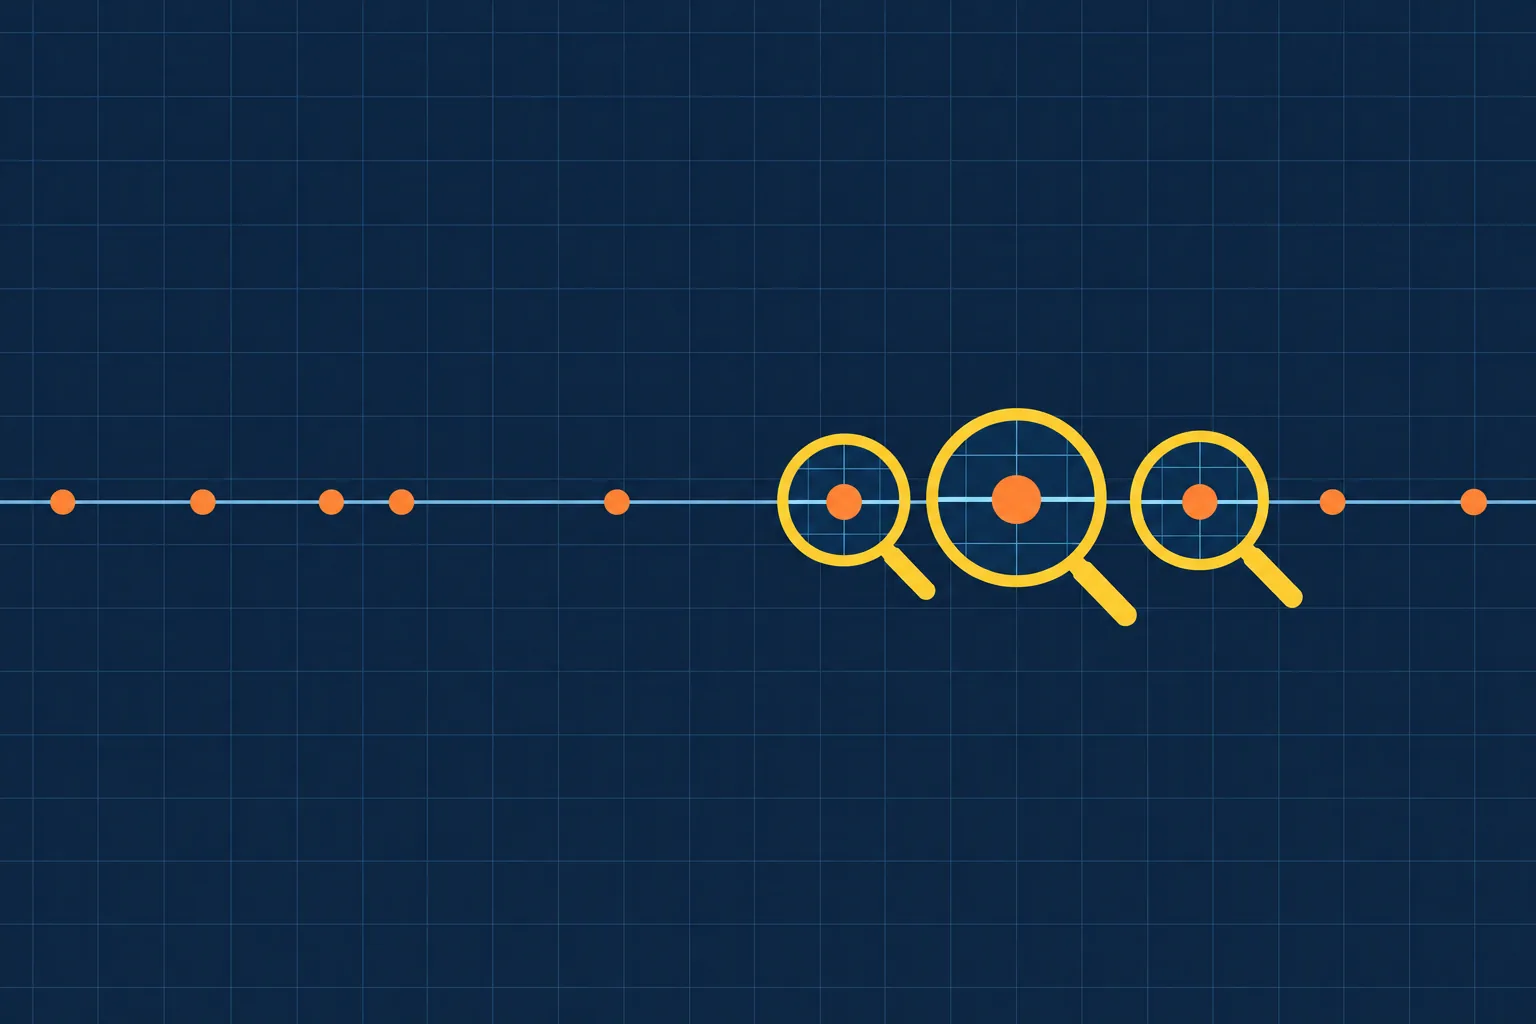
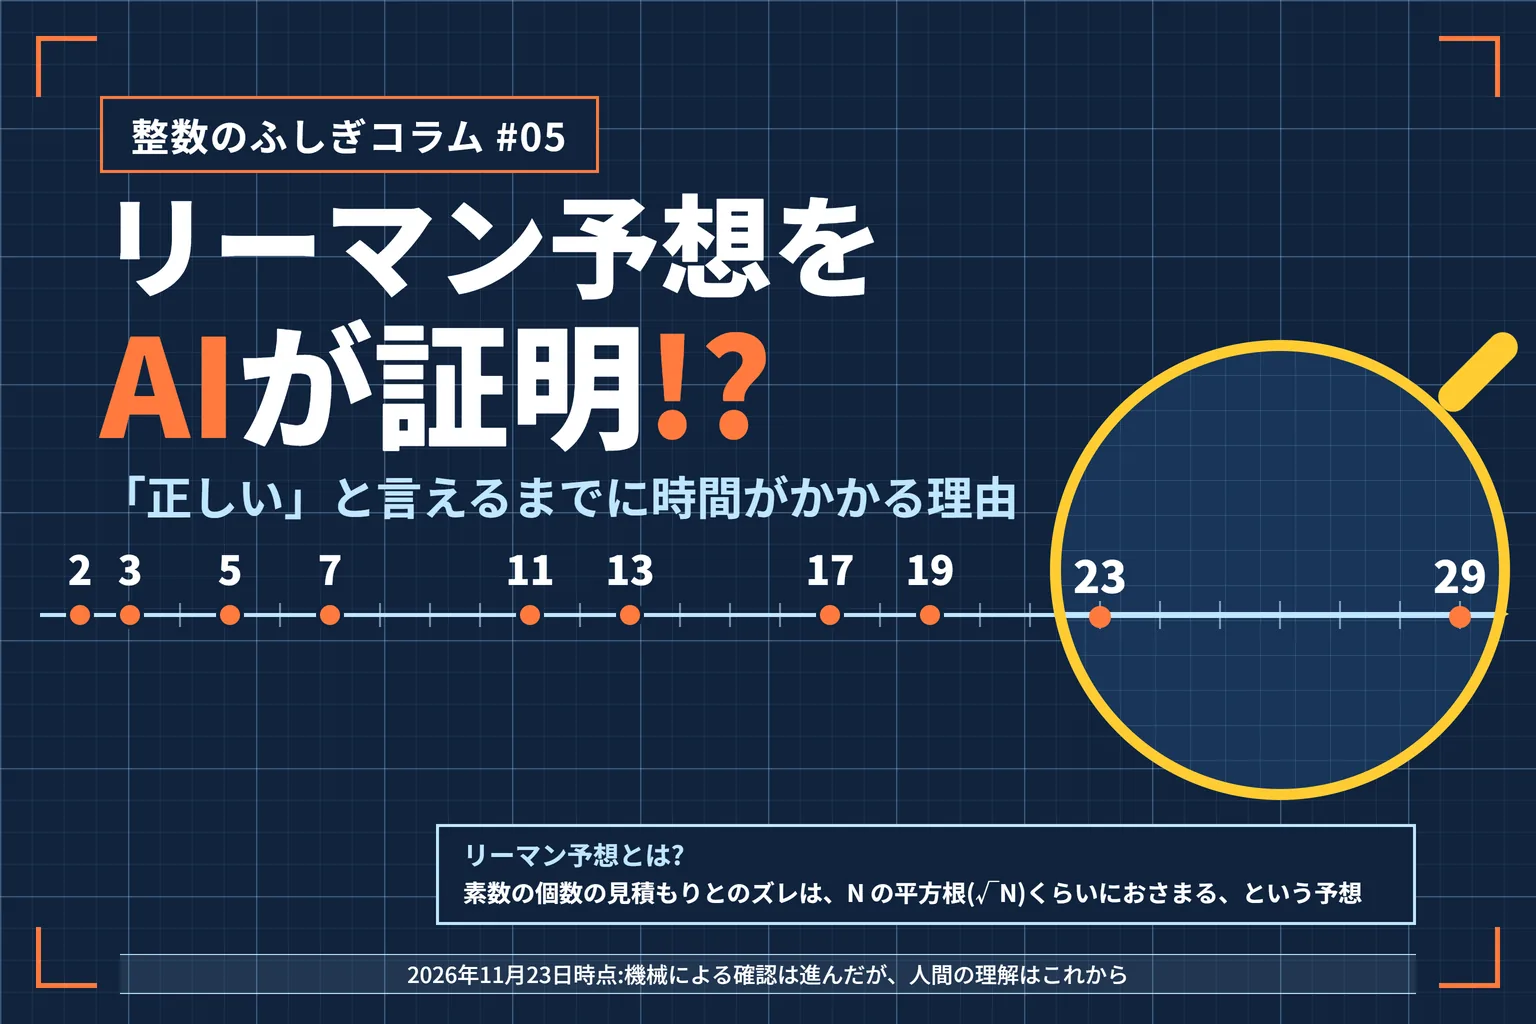
公開

diff --git a/index.html b/index.html
@@ -249,7 +249,7 @@ const APPS = [
   {"g": 0, "k": "extra", "tag": "計算練習", "name": "平方完成トレーニング", "desc": "手書きメモ付き・基本＆係数ありの2次関数変形ドリル", "href": "https://t-immr9.github.io/drill-app/heihoukansei_drill.html"},
   {"g": 0, "k": "extra", "tag": "思考力・集中力", "name": "無言パズル", "href": "https://t-immr9.github.io/mugonpazuru/"},
   {"g": 0, "k": "extra", "tag": "中学の復習", "name": "中学校の内容の確認ドリル", "desc": "正負の数・文字式・方程式など、中学校の内容を40問の4択で確かめる。", "href": "https://t-immr9.github.io/suu1chuugakkounonaiyounokakunin/"},
-  {"g": 0, "k": "sonosaki", "tag": "その先・数学Ⅰ", "name": "2次方程式・2次不等式のその先", "desc": "判別式、2次不等式の解き方から始めて、常に成り立つ条件、文字を含む不等式、解の配置、条件つきの最大・最小、絶対値まで。「式をグラフで見る」受験テクニックで入試の標準問題を解き進める。開くにはパスワードが必要です（授業スライドとは別。Teamsで連絡します）。", "href": "https://t-immr9.github.io/sonosaki-slides/#quadratic", "hide": true},
+  {"g": 0, "k": "sonosaki", "tag": "その先・数学Ⅰ", "name": "2次方程式・2次不等式のその先", "desc": "判別式、2次不等式の解き方から始めて、常に成り立つ条件、文字を含む不等式、解の配置、条件つきの最大・最小、絶対値まで。「式をグラフで見る」受験テクニックで入試の標準問題を解き進める。開くにはパスワードが必要です（授業スライドとは別。Teamsで連絡します）。", "href": "https://t-immr9.github.io/sonosaki-slides/#quadratic"},
   {"g": 0, "k": "sonosaki","tag": "その先・数学Ⅱ", "name": "三角関数のその先", "desc": "加法定理の応用、2倍角・半角・3倍角、合成、最大・最小、和と積の公式まで。ヒントを見ながら入試の標準問題を解き進める。開くにはパスワードが必要です（授業スライドとは別。Teamsで連絡します）。", "href": "https://t-immr9.github.io/sonosaki-slides/#trig"},
   {"g": 0, "k": "sonosaki", "tag": "その先・数学Ⅱ", "name": "指数関数・対数関数のその先", "desc": "対称式の値、指数・対数の方程式と不等式、log をおきかえる問題、最大・最小、常用対数まで。ヒントを見ながら入試の標準問題を解き進める。開くにはパスワードが必要です（授業スライドとは別。Teamsで連絡します）。", "href": "https://t-immr9.github.io/sonosaki-slides/#exp-log"},
   {"g": 0, "k": "sonosaki", "tag": "その先・数学B", "name": "数列のその先", "desc": "授業で習っていなくても大丈夫。数列とは何かから始めて、等差・等比数列、Σ、漸化式、数学的帰納法まで。ヒントを見ながら入試の標準問題を解き進める。開くにはパスワードが必要です（授業スライドとは別。Teamsで連絡します）。", "href": "https://t-immr9.github.io/sonosaki-slides/#sequence"},

diff --git a/columns/seisu-05.html b/columns/seisu-05.html
@@ -20,7 +20,7 @@ figure.inline-figure{margin:28px 0;padding:0}figure.inline-figure img{width:100%
 </style></head><body>
 <div class="topbar"><div class="topbar-inner"><a href="../">&larr; 数学演習室に戻る</a></div></div>
 <article class="article">
-<div class="eyecatch-wrap"><img src="../images/columns/seisu-05-eyecatch.webp" alt="数直線の上に不規則に並ぶ素数の目印を、虫眼鏡で確かめているイメージ。整数のふしぎ第5回のアイキャッチ画像" decoding="async"></div>
+<div class="eyecatch-wrap"><img src="../images/columns/seisu-05-eyecatch.webp" alt="「リーマン予想をAIが証明!?」というタイトルと、数直線の上の素数2から29までを、虫眼鏡で23と29のあたりを拡大して見ているイメージ。「素数の個数の見積もりとのズレは、Nの平方根くらいにおさまる、という予想」の説明つき。整数のふしぎ第5回のアイキャッチ画像" decoding="async"></div>
 <div class="article-meta"><span class="pill">整数のふしぎ</span><span class="article-date">第5回・2026年11月</span></div>
 <h1 class="article-title">リーマン予想をAIが証明!? 「正しい」と言えるまでに時間がかかる理由</h1>
 <p class="article-lead">2026年11月、「数学で最も有名な未解決問題」を、AIといっしょに証明したという発表がありました。その問題が「リーマン予想」です。いったい何を言っている予想なのでしょうか。そして、証明が見つかったと言われているのに、なぜ「正しい」と言い切れるまでに時間がかかるのでしょうか。まずは、素数を数えるところから始めましょう。</p>
